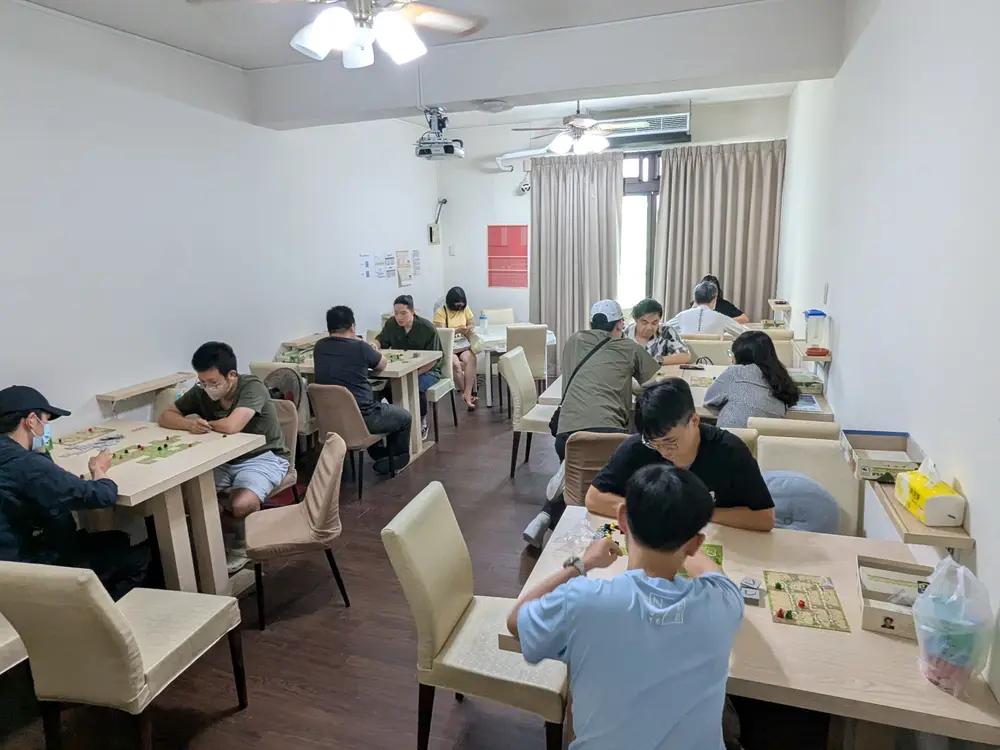
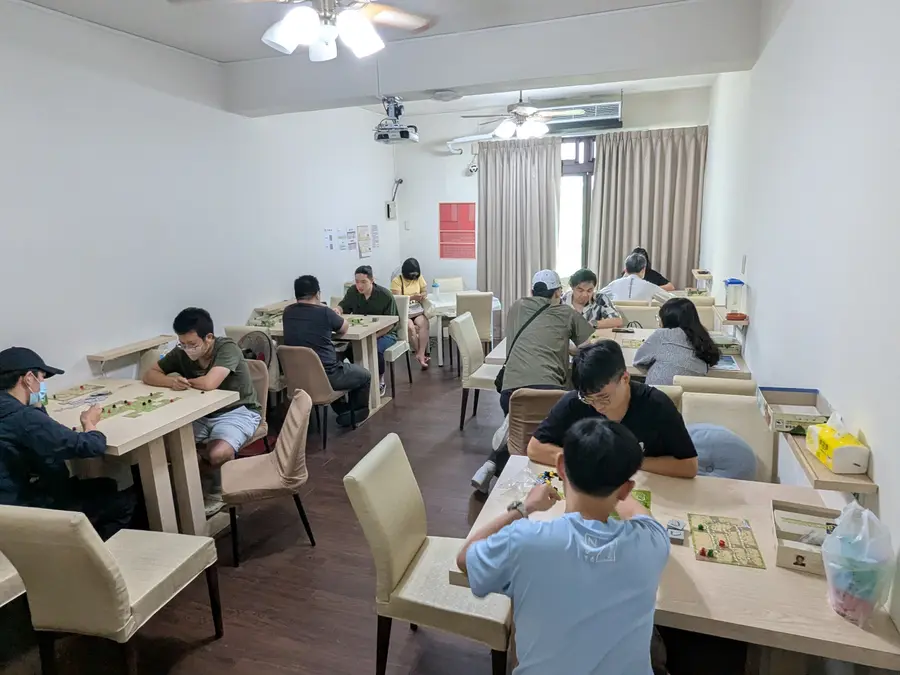
feat(web): 門面頁換上 Lu 新補的店內素材，首頁增為 9 張照片
Lu 2026-08-24 補了 16 張素材，挑 10 張進 repo（`assets-src/site-photos/`，
超過 2200px 的先縮，共 4MB；這批不進 public/ 所以不會被公開存取）。

版位安排：
- 首頁 hero 換成桌遊牆走道（有縱深，直接對應「超過 1,600 款全部開盒」）
- 「三個特色」從純文字橫列改成照片在上、文字在下的三欄：
  重度策略盤面／一桌客人／客人邊吃邊玩，各自對應那段文案在講的事
- 樓層 1F 換成桌遊牆特寫、2F 換成較亮的和室空景
- 收費一覽右欄補滿場照，交通區換成店門口招牌（招牌同時帶到同棟的莎朗嘿yo）
- about 三個樓層改用販售專區／和室／電動麻將桌；地址與交通配店門口招牌
- pricing 包場方案補 2 樓和室坐滿人的照片

沿用上一版的兩條挑片規則：有客人入鏡的照片 Lu 已授權；
牆上 5F 密室系列海報一律裁掉（該業務三年前已轉給草咩咩）。
麻將桌那張另裁掉右緣旁人的外套。

圖片總量 12 張 1.10MB（全部 webp，首屏以外 lazy load）；
順手清掉四張沒人引用的舊縮圖，optimizer 現在會自動移除未產出的殘檔。

文案、標題階層、結構化資料未動。驗收：四頁逐句到齊、字元零遺失
（1687／617／858／1640 與線上版完全相同），title/description 各 1 個。

diff --git a/src/pages/public/HomePage.jsx b/src/pages/public/HomePage.jsx
@@ -25,14 +25,20 @@ const HIGHLIGHTS = [
   {
     title: '1,600款以上桌遊，換玩不加價',
     desc: '1樓整面桌遊牆全部開盒可玩，從10分鐘的派對遊戲到三小時的重度策略都有。入場後想換幾款就換幾款，不另外計費。',
+    photo: '/images/env/web/game-heavy.webp',
+    alt: '烏嘎嘎桌遊店內攤開的重度策略遊戲盤面與配件',
   },
   {
     title: '不會玩？我們免費教',
     desc: '選好遊戲跟店員說一聲就會有人教規則，不額外收費。第一次玩桌遊、不知道挑什麼，直接告訴店員人數與想玩的感覺，我們幫你選。',
+    photo: '/images/env/web/table-group.webp',
+    alt: '一桌客人在烏嘎嘎桌遊店內一起玩桌遊',
   },
   {
     title: '沒有低消，費用一次算清',
     desc: '不用為了坐下而點餐。全日暢玩玩到打烊、輕鬆玩方案3小時內計費，入店超過20分鐘才開始計入場費，提早離場退差額。',
+    photo: '/images/env/web/crowd.webp',
+    alt: '客人在烏嘎嘎桌遊店內邊吃邊玩桌遊',
   },
 ];
 
@@ -43,7 +49,7 @@ const FLOORS = [
     floor: '1F',
     title: '桌遊牆與販售專區',
     desc: '整面開盒桌遊自由借玩，同區設有販售專區，喜歡可以直接帶回家。',
-    photo: '/images/env/web/game-wall.webp',
+    photo: '/images/env/web/wall-close.webp',
     alt: '烏嘎嘎桌遊1樓整面開盒桌遊牆與販售專區',
     wide: true,
   },
@@ -51,7 +57,7 @@ const FLOORS = [
     floor: '2F',
     title: '日式地板區',
     desc: '低桌坐墊設計，適合親子與想放鬆坐著玩的客人，也可整層包場（約30人）。',
-    photo: '/images/env/web/floor2.webp',
+    photo: '/images/env/web/tatami.webp',
     alt: '烏嘎嘎桌遊2樓日式地板區的矮桌與坐墊',
   },
   {
@@ -122,8 +128,8 @@ export default function HomePage() {
           <div className="lg:col-span-6">
             <div className="aspect-[14/9]">
               <img
-                src="/images/env/web/crowd.webp"
-                alt="客人在烏嘎嘎桌遊店內圍桌遊玩桌遊"
+                src="/images/env/web/wall-aisle.webp"
+                alt="烏嘎嘎桌遊店內整排開盒桌遊的桌遊牆走道"
                 width="1400"
                 height="900"
                 fetchPriority="high"
@@ -151,13 +157,16 @@ export default function HomePage() {
         </dl>
       </section>
 
-      {/* 3. 三個特色：編輯式橫列，左標題右說明，不做成三張並排卡片 */}
+      {/* 3. 三個特色：照片在上、文字在下的三欄。不加外框，靠照片與留白分組 */}
       <section className="max-w-5xl mx-auto px-5 sm:px-8 pb-16 sm:pb-20">
-        <div className="ug-divide ug-hair">
+        <div className="grid grid-cols-1 md:grid-cols-3 gap-6 md:gap-5">
           {HIGHLIGHTS.map((h) => (
-            <div key={h.title} className="grid grid-cols-1 sm:grid-cols-12 gap-2 sm:gap-8 py-7">
-              <h2 className="sm:col-span-5 font-bold ug-ink text-base sm:text-lg leading-snug">{h.title}</h2>
-              <p className="sm:col-span-7 ug-body ug-ink-2">{h.desc}</p>
+            <div key={h.title}>
+              <div className="aspect-[4/3] mb-4">
+                <img src={h.photo} alt={h.alt} width="900" height="675" loading="lazy" className="ug-photo" />
+              </div>
+              <h2 className="font-bold ug-ink text-base mb-2 leading-snug">{h.title}</h2>
+              <p className="ug-body ug-ink-2">{h.desc}</p>
             </div>
           ))}
         </div>
@@ -224,10 +233,22 @@ export default function HomePage() {
               </tbody>
             </table>
           </div>
-          <p className="lg:col-span-5 ug-body ug-ink-2">
-            入會費399元、永久有效無年費，當天辦當天就能用會員價。包場、租借與付款方式詳見{' '}
-            <Link to="/pricing" className="font-bold ug-accent underline">服務與收費</Link>。
-          </p>
+          <div className="lg:col-span-5">
+            <p className="ug-body ug-ink-2 mb-5">
+              入會費399元、永久有效無年費，當天辦當天就能用會員價。包場、租借與付款方式詳見{' '}
+              <Link to="/pricing" className="font-bold ug-accent underline">服務與收費</Link>。
+            </p>
+            <div className="aspect-[4/3]">
+              <img
+                src="/images/env/web/group.webp"
+                alt="烏嘎嘎桌遊店內多桌客人同時遊玩的滿場情況"
+                width="900"
+                height="675"
+                loading="lazy"
+                className="ug-photo"
+              />
+            </div>
+          </div>
         </div>
       </section>
 
@@ -270,8 +291,8 @@ export default function HomePage() {
           <div className="lg:col-span-5">
             <div className="aspect-[4/3]">
               <img
-                src="/images/env/web/counter.webp"
-                alt="烏嘎嘎桌遊店內櫃台與收費看板"
+                src="/images/env/web/storefront.webp"
+                alt="烏嘎嘎桌遊位於台中市東區自由路四段309號的店門口招牌"
                 width="1000"
                 height="750"
                 loading="lazy"

diff --git a/src/pages/public/AboutPage.jsx b/src/pages/public/AboutPage.jsx
@@ -21,22 +21,22 @@ const FLOORS = [
     floor: '1F',
     title: '桌遊牆與販售專區',
     desc: '超過1,600款開盒桌遊自由借玩，同區設有販售專區，喜歡可直接帶回家。',
-    photo: '/images/env/web/floor1.webp',
-    alt: '烏嘎嘎桌遊1樓的桌遊販售專區',
+    photo: '/images/env/web/wall-close.webp',
+    alt: '烏嘎嘎桌遊1樓整面開盒桌遊牆',
   },
   {
     floor: '2F',
     title: '日式地板區',
     desc: '低桌坐墊設計，適合親子與喜歡放鬆氛圍的玩家。',
-    photo: '/images/env/web/floor2.webp',
+    photo: '/images/env/web/tatami.webp',
     alt: '烏嘎嘎桌遊2樓日式地板區的矮桌與坐墊',
   },
   {
     floor: '3F',
     title: '桌椅空間＋電動麻將桌',
     desc: '店內容納人數最多的樓層，適合重度策略遊戲與包場；另設電動日麻桌（支援日麻／台麻），需預約使用。',
-    photo: '/images/env/web/floor3.webp',
-    alt: '烏嘎嘎桌遊3樓的大桌椅空間，多桌客人同時遊玩',
+    photo: '/images/env/web/mahjong.webp',
+    alt: '烏嘎嘎桌遊3樓的電動麻將桌',
   },
 ];
 
@@ -65,10 +65,10 @@ export default function AboutPage() {
           <div className="lg:col-span-5">
             <div className="aspect-[4/3]">
               <img
-                src="/images/env/web/game-wall.webp"
-                alt="烏嘎嘎桌遊店內整面開盒桌遊牆"
-                width="1400"
-                height="1050"
+                src="/images/env/web/sales.webp"
+                alt="烏嘎嘎桌遊1樓的桌遊販售專區貨架"
+                width="1000"
+                height="750"
                 fetchPriority="high"
                 className="ug-photo"
               />
@@ -97,8 +97,8 @@ export default function AboutPage() {
             <div className="lg:col-span-5">
               <div className="aspect-[4/3]">
                 <img
-                  src="/images/env/web/counter.webp"
-                  alt="烏嘎嘎桌遊店內櫃台"
+                  src="/images/env/web/storefront.webp"
+                  alt="烏嘎嘎桌遊位於台中市東區自由路四段309號的店門口招牌，同棟3樓為莎朗嘿yo韓式照相館"
                   width="1000"
                   height="750"
                   loading="lazy"

diff --git a/src/pages/public/PricingPage.jsx b/src/pages/public/PricingPage.jsx
@@ -119,9 +119,21 @@ export default function PricingPage() {
                 </table>
               </div>
             </div>
-            <p className="lg:col-span-5 text-sm leading-[1.85] ug-ink-3">
-              包場為整段時段計價、不另計人數。要包場請先透過官方LINE或Facebook粉絲專頁洽詢檔期。
-            </p>
+            <div className="lg:col-span-5">
+              <p className="text-sm leading-[1.85] ug-ink-3 mb-5">
+                包場為整段時段計價、不另計人數。要包場請先透過官方LINE或Facebook粉絲專頁洽詢檔期。
+              </p>
+              <div className="aspect-[4/3]">
+                <img
+                  src="/images/env/web/tatami-busy.webp"
+                  alt="烏嘎嘎桌遊2樓和室包場時坐滿客人的情況"
+                  width="900"
+                  height="675"
+                  loading="lazy"
+                  className="ug-photo"
+                />
+              </div>
+            </div>
           </div>
         </section>
 
